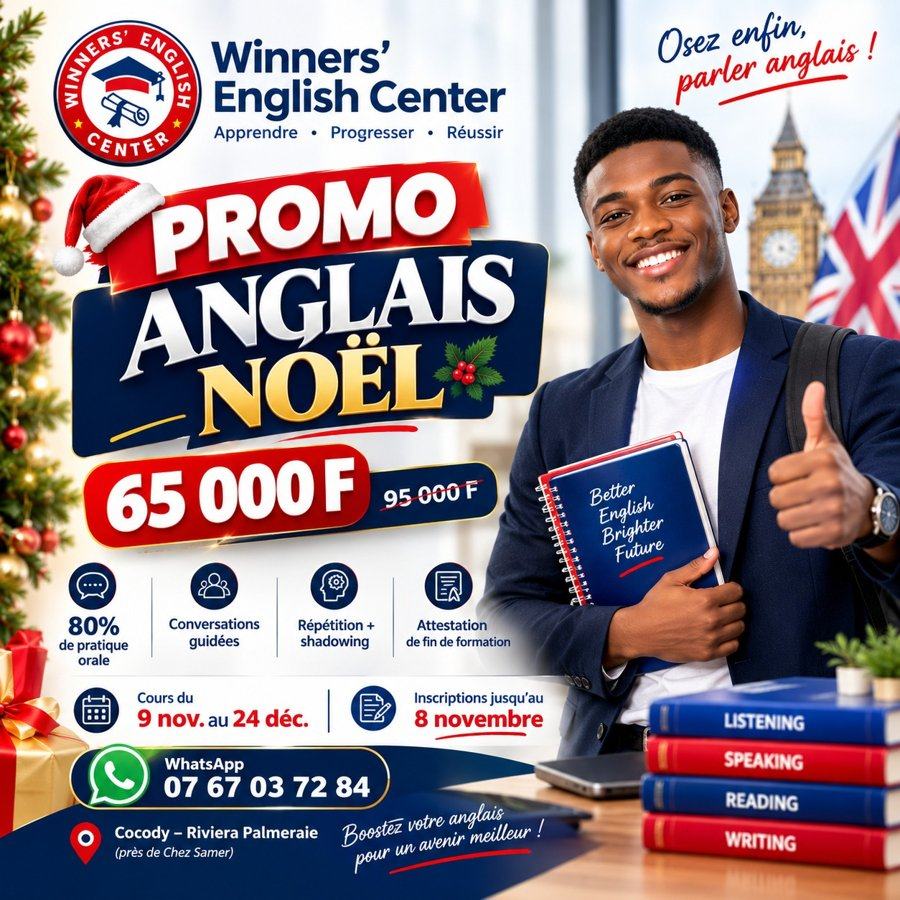
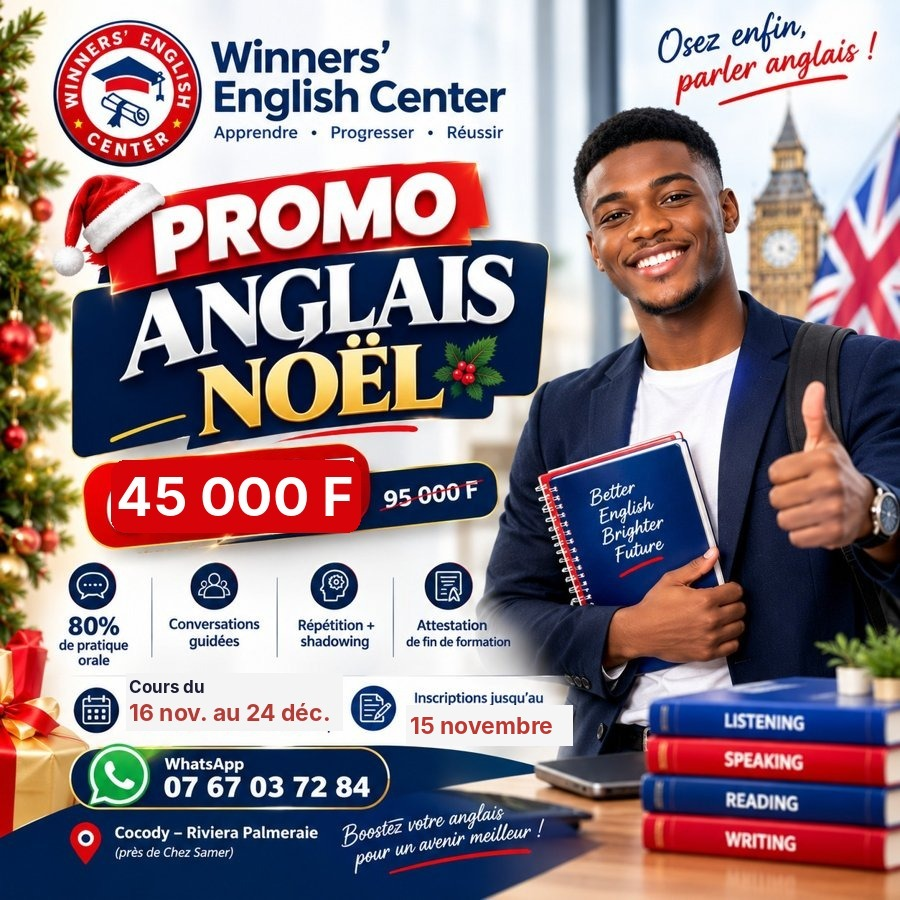
Promo Noel 45000 F, debut 16 nov, masterclass 15 nov
Claude-Session: https://claude.ai/code/session_01RFv1fahLU5XSvBC829hEWp

diff --git a/index.html b/index.html
@@ -317,7 +317,7 @@ section.sec{padding-block:56px}@media(max-width:600px){section.sec{padding-block
 <script src="pub.js"></script>
 <script src="test.js"></script>
 <div id="app"></div>
-<script id="site-data" type="application/json">{"general": {"name": "Winners' English Center", "tagline": "Centre de formation en anglais", "logo": "site/img/16d24c4840.png", "whatsapp": "2250767037284", "whatsappDisplay": "+225 07 67 03 72 84", "phone": "+225 07 67 03 72 84 · +225 01 41 81 70 78", "email": "winnersenglish04@gmail.com", "address": "Cocody, Riviera Palmeraie, Abidjan, Côte d'Ivoire", "mapsUrl": "https://www.google.com/maps/search/?api=1&query=Winners%27+English+Center+Cocody+Riviera+Palmeraie", "siteUrl": "https://winnersenglishcenter.com/", "facebook": "https://www.facebook.com/108178682182393", "tiktok": "https://www.tiktok.com/@winnersenglish", "adminCode": "winners2026", "heroTitles": [["Parlez anglais avec confiance", "Speak English with confidence"], ["Osez prendre la parole", "Dare to speak up"], ["Votre anglais, votre avenir", "Your English, your future"]], "heroSubtitle": "Cours en groupe, en privé, en ligne ou à domicile, du niveau A1 au C2. Une méthode basée sur la pratique orale, pour enfin parler et pas seulement comprendre.", "heroImages": ["site/img/fb/cours_adultes.jpg", "site/img/fb/kids_groupe.jpg", "site/img/fb/banco.jpg", "g/groupe.jpg", "site/img/fb/groupe_tshirts.jpg"], "stats": [{"n": "929+", "l": "fans sur Facebook"}, {"n": "3 000+", "l": "abonnés TikTok"}, {"n": "30K+", "l": "j'aime sur TikTok"}, {"n": "A1 → C2", "l": "tous les niveaux"}]}, "gallery": [{"img": "site/img/fb/kids_cours.jpg", "caption": "Cours d'anglais pour enfants avec Coach Winner", "big": true}, {"img": "site/img/fb/adultes_dialogue.jpg", "caption": "Jeu de rôle : deux apprenants pratiquent un dialogue", "big": true}, {"img": "site/img/fb/coach_tableau.jpg", "caption": "Coach Winner explique la leçon au tableau numérique", "big": false}, {"img": "site/img/fb/kids_oral.jpg", "caption": "Les enfants prennent la parole en anglais", "big": false}, {"img": "site/img/fb/adultes_classe.jpg", "caption": "Cours adultes en petit groupe avec Coach Winner", "big": false}, {"img": "site/img/fb/apprenante.jpg", "caption": "Une apprenante en cours présentiel, avec son manuel B1-B2", "big": false}, {"img": "site/img/fb/adultes_test.jpg", "caption": "Test oral en groupe : « Discovering Canada »", "big": false}, {"img": "site/img/fb/kids_tableau.jpg", "caption": "Au tableau : on écrit et on parle en anglais", "big": false}, {"img": "site/img/fb/attestation.jpg", "caption": "Remise d'attestation de fin de formation", "big": true}, {"img": "site/img/fb/adultes_explication.jpg", "caption": "Coach Winner explique la grammaire au tableau numérique", "big": false}, {"img": "site/img/fb/kids_coach_fille.jpg", "caption": "Une jeune apprenante avec Coach Winner", "big": false}, {"img": "site/img/fb/adultes_lecture.jpg", "caption": "Lecture et compréhension en classe", "big": false}, {"img": "site/img/fb/adultes_ecoute.jpg", "caption": "Activité d'écoute pendant le cours", "big": false}, {"img": "site/img/fb/classe_1.jpg", "caption": "Pratique de l'oral en classe", "big": false}, {"img": "g/aide.jpg", "caption": "Coach Winner aide une apprenante", "big": false}, {"img": "site/img/fb/coach_studio.jpg", "caption": "Coach Winner prépare les cours en ligne", "big": false}, {"img": "g/coulisses.jpg", "caption": "Dans les coulisses du centre", "big": false}], "videos": [{"title": "Une jeune apprenante se présente en anglais devant la classe", "url": "v/kids_1.mp4", "cover": "v/kids_1.jpg"}, {"title": "À son tour, un jeune apprenant se présente en anglais", "url": "v/kids_2.mp4", "cover": "v/kids_2.jpg"}, {"title": "Practice time : deux apprenantes en jeu de rôle devant le groupe", "url": "v/practice.mp4", "cover": "v/practice.jpg"}, {"title": "Un apprenant se présente en anglais", "url": "v/intro_apprenant.mp4", "cover": "v/intro_apprenant.jpg"}, {"title": "Shadowing en groupe : on écoute, on répète, on imite", "url": "v/shadowing_hd.mp4", "cover": "v/shadowing_hd.jpg"}, {"title": "Un autre apprenant prend la parole en anglais", "url": "v/presentation.mp4", "cover": "v/presentation.jpg"}, {"title": "Une apprenante souhaite un joyeux anniversaire… en anglais !", "url": "v/birthday.mp4", "cover": "v/birthday.jpg"}, {"title": "Un vrai cours au centre, en petit groupe", "url": "v/cours_groupe.mp4", "cover": "v/cours_groupe.jpg"}, {"title": "Cours en pleine forêt au Parc du Banco", "url": "v/banco.mp4", "cover": "v/banco.jpg"}], "services": [{"icon": "👥", "title": "Cours en groupe", "desc": "Des petits groupes par niveau, pour pratiquer l'oral avec d'autres apprenants motivés."}, {"icon": "🎯", "title": "Cours privés", "desc": "Un programme sur mesure, à votre rythme, centré sur vos objectifs : travail, voyage, examen."}, {"icon": "💻", "title": "Cours en ligne", "desc": "Les mêmes cours en visioconférence, où que vous soyez en Côte d'Ivoire ou à l'étranger."}, {"icon": "🏠", "title": "Cours à domicile", "desc": "Le formateur se déplace chez vous, pour adultes comme pour enfants."}, {"icon": "🧒", "title": "Répétiteurs pour enfants", "desc": "Des répétiteurs à domicile pour accompagner vos enfants en anglais, du primaire à la terminale."}, {"icon": "📄", "title": "Traduction de documents", "desc": "Traduction français ↔ anglais de vos documents administratifs, académiques et professionnels."}, {"icon": "🎙", "title": "Interprétariat", "desc": "Un interprète pour vos réunions, rendez-vous d'affaires et événements."}, {"icon": "🤝", "title": "Escorte bilingue", "desc": "Un accompagnateur bilingue pour vos visiteurs anglophones, dans leurs démarches et déplacements."}], "founder": {"name": "Guy Boris Douka", "role": "Fondateur et formateur, « Coach Winner »", "photos": ["site/img/fb/fondateur.jpg"], "desc": "Fondateur de Winners' English Center à Cocody, Guy Boris Douka, alias Coach Winner, accompagne enfants, étudiants et professionnels vers un anglais qu'ils osent parler. Sa conviction : une langue s'apprend en la pratiquant, chaque jour, sans peur de se tromper.", "skills": ["Anglais général", "Anglais professionnel", "Préparation à l'oral", "Traduction", "Interprétariat", "Pédagogie enfants"], "articles": [], "extraPhotos": []}, "testimonials": [], "courses": [], "specialFeatured": {}, "specials": [{"title": "Masterclass gratuite : Réussis ton entretien d'embauche en anglais", "slug": "masterclass-entretien", "audience": "Étudiants, diplômés, travailleurs · Gratuit", "tag": "21 novembre", "cover": "site/img/prog_masterclass_entretien.jpg", "desc": "Une offre d'emploi ou un stage demande l'anglais, et tu as peur de perdre le poste à l'entretien ? Cette masterclass est faite pour toi.\nSamedi 21 novembre de 10 h à 11 h 30, à CHIC SALLE, Cocody Riviera Palmeraie (accueil dès 9 h 30). Également en direct sur la page Facebook.\n\n✅ Les 10 questions qu'on te pose presque toujours en entretien, et comment y répondre\n✅ Te présenter en anglais en 1 minute, sans bloquer\n✅ Les erreurs qui éliminent un candidat\n✅ Des simulations d'entretien en direct avec des volontaires\n✅ Un test de niveau offert à l'entrée, avec ton résultat le jour même\n✅ Une offre spéciale réservée aux participants\n\n⏳ Places limitées en salle : réserve la tienne.", "price": "Entrée gratuite, sur réservation", "date": "2026-11-05", "inscription": "https://wa.me/2250767037284?text=Bonjour%20Coach%20Winner%2C%20je%20r%C3%A9serve%20ma%20place%20pour%20la%20masterclass%20%C2%AB%20Entretien%20d%27embauche%20en%20anglais%20%C2%BB%20du%2021%20novembre.%20Mon%20nom%20%3A%20"}, {"title": "Promo Anglais Professionnel", "slug": "anglais-professionnel", "audience": "Étudiants, diplômés, travailleurs, entrepreneurs", "tag": "1er décembre", "cover": "site/img/prog_anglais_pro.jpg", "desc": "Entretien d'embauche, e-mails, appels, réunions : en 4 semaines, apprends l'anglais dont tu as besoin pour décrocher un poste et évoluer dans ta carrière.\nDu 1er au 24 décembre, 2 séances de 2 h par semaine. Au cabinet (CHIC SALLE, Cocody Riviera Palmeraie), en ligne ou à domicile.\n\n📚 Au programme\nSemaine 1 : te présenter en anglais (parcours, qualités, objectifs) avec un pitch d'une minute\nSemaine 2 : les questions d'entretien, comment y répondre, et le vocabulaire de ton métier\nSemaine 3 : l'anglais du travail : e-mails professionnels, appels téléphoniques, réunions\nSemaine 4 : simulations d'entretien filmées, correction personnalisée et entretien final\n\n🎁 Inclus\n✅ Ton CV traduit et corrigé en anglais\n✅ Ton pitch de présentation rédigé avec toi\n✅ Le guide « Entretien d'embauche en anglais » offert\n✅ Un test de niveau au début et à la fin\n✅ Un groupe WhatsApp avec une question d'entretien par jour\n✅ Une attestation de fin de formation\n\n💰 Formules\nAu cabinet : cours groupé (15 pers. max) 45 000 F · cours privé 70 000 F\nEn ligne : cours groupé (15 pers. max) 40 000 F · cours privé 65 000 F\nÀ domicile : Riviera Palmeraie 70 000 F · Cocody 80 000 F · hors Cocody 85 000 F\n\n📄 Petit budget ? Le guide « Entretien d'embauche en anglais » seul : 5 000 F, pour apprendre à ton rythme.", "price": "À partir de 40 000 F", "date": "2026-11-05", "inscription": "https://wa.me/2250767037284?text=Bonjour%20Coach%20Winner%2C%20je%20veux%20m%27inscrire%20%C3%A0%20la%20Promo%20Anglais%20Professionnel.%20Formule%20choisie%20%3A%20"}, {"title": "Speaking Weekend", "slug": "speaking-weekend", "audience": "Ados et adultes · 100 % en ligne", "tag": "Nouveau", "cover": "site/img/prog_speaking_weekend.jpg", "desc": "Tu comprends l'anglais mais tu bloques dès qu'il faut parler ? Chaque samedi de 19 h à 20 h 30, sur Google Meet, on pratique l'oral en petits groupes avec Coach Winner : discussions, jeux de rôle, débats sur la vie réelle. Idéal si tu travailles toute la semaine. 1re séance le samedi 14 novembre. Offert aux élèves de la Promo Anglais Noël.", "price": "10 000 F par mois (4 séances)", "date": "2026-11-03", "inscription": "https://docs.google.com/forms/d/e/1FAIpQLSesWfZ3C3tI3VC3vyurEbz_ASMHTTXm889D19DENrqoynH3ww/viewform"}, {"title": "30 jours d'écoute anglophone", "slug": "30-jours-ecoute", "audience": "Ados et adultes · 3 niveaux", "tag": "1er décembre", "cover": "site/img/prog_30_jours_ecoute.jpg", "desc": "Tu comprends mal quand un anglophone parle vite ? En 30 jours, habitue ton oreille à l'anglais parlé, à ton rythme.\nDémarrage officiel le 1er décembre. Ensuite, le programme reste ouvert : tu t'inscris et tu commences quand tu veux.\n\n✅ 1 audio + 1 PDF d'exercices par jour, sur l'appli et le site\n✅ + 30 audios bonus\n✅ 3 niveaux : Beginner, Intermédiaire, Avancé (un petit test pour entrer en Intermédiaire ou en Avancé)\n✅ Un test d'écoute au début et à la fin, pour mesurer ton progrès\n✅ 4 rencontres par mois le week-end avec le Teacher : 1 au centre à Cocody, 3 en ligne\n✅ Un groupe WhatsApp par niveau\n✅ Une attestation de fin de programme\n✅ Un casque d'écoute offert, livré gratuitement partout à Abidjan (hors Abidjan : expédition à ta charge)\n\n⏳ 15 places seulement par niveau.", "price": "20 000 F tout compris, en une fois", "date": "2026-11-04", "inscription": "https://docs.google.com/forms/d/e/1FAIpQLScf80eHzwDchVrg7xzjeAd6VcAv2z98rPeVafTCCO3eAGJFsw/viewform"}, {"title": "English Club Meeting", "slug": "english-club-meeting", "audience": "Tous niveaux · Gratuit", "tag": "Gratuit", "cover": "site/img/prog_club.jpg", "desc": "Come. Practice. Connect. Des rencontres au centre pour parler anglais : discussions, jeux, activités, nouvelles amitiés. Venez, pratiquez, échangez et progressez !", "price": "Entrée gratuite", "date": "2026-10-04"}, {"title": "Anglais Vacances : adolescents", "slug": "anglais-vacances-ados", "audience": "Adolescents", "tag": "Vacances", "cover": "site/img/prog_vacances_ados.jpg", "desc": "Gagner en confiance en anglais avant la rentrée : 2 séances de 2 h par semaine, en présentiel ou en ligne, test de placement gratuit, séance de renforcement sur WhatsApp, supports audio, vidéo et PDF inclus.", "price": "30 000 F le programme", "date": "2026-10-03", "hideInGrid": true}, {"title": "Anglais Vacances : travailleurs & entrepreneurs", "slug": "anglais-vacances-pro", "audience": "Travailleurs, entrepreneurs", "tag": "Vacances", "cover": "site/img/prog_vacances_pro.jpg", "desc": "L'anglais qui ouvre les portes de votre carrière et de votre business : 2 séances de 2 h par semaine, présentiel ou en ligne, test de placement gratuit, supports inclus.", "price": "30 000 F le programme", "date": "2026-10-02", "hideInGrid": true}, {"title": "Webinaire : Je comprends l'anglais, mais je ne parle pas", "slug": "webinaire", "audience": "Tous niveaux · En ligne", "tag": "Gratuit", "cover": "site/img/prog_webinaire.jpg", "desc": "Comprendre ne suffit pas, il est temps d'oser parler. Un webinaire gratuit avec Coach Winner pour débloquer ta parole, réservé aux membres de la communauté English Lovers Club.", "price": "Gratuit", "date": "2026-10-01", "hideInGrid": true}, {"title": "Anglais pour enfants", "audience": "Enfants, du primaire au collège", "desc": "Cours d'anglais à domicile et au centre : jeux éducatifs, expression orale, vocabulaire, prononciation, confiance en soi.", "price": "", "date": "2026-08-25", "hideInGrid": true}, {"title": "Cours à domicile", "slug": "cours-a-domicile", "audience": "Enfants, du primaire à la Terminale", "desc": "WIN Cours à domicile : un répétiteur sérieux chez vous, toutes matières, partout à Abidjan. Tarif au mois, remplacement garanti si le répétiteur ne convient pas.", "price": "", "date": "2026-08-01", "hideInGrid": true}, {"title": "Traduction & interprétariat", "slug": "traduction-interpretariat", "audience": "Entreprises, particuliers", "desc": "Traduction français ↔ anglais de vos documents, interprète pour vos réunions, rendez-vous d'affaires et missions.", "price": "Sur devis", "date": "2026-07-01", "hideInGrid": true}, {"title": "Cours privés", "slug": "cours-prives", "audience": "Adultes, professionnels", "desc": "Un programme sur mesure, à votre rythme, au centre, en ligne ou à domicile : entretien, travail, voyage, examen.", "price": "", "date": "2026-07-02", "hideInGrid": true}], "shop": [{"title": "Le Pack Anglais à vie : payez une fois, apprenez pour toujours", "desc": "50 modules, 300 vidéos, 400 audios, 250 PDF, packs IELTS, TOEFL et TOEIC. Accès à vie, téléchargement immédiat.", "price": "4 900 F", "cover": "site/img/pack_4900.jpg", "payUrl": ""}, {"title": "Je comprends l'anglais, mais je ne parle pas", "desc": "Le guide pour enfin oser parler : débloquer la peur de l'erreur et passer de la compréhension à la parole.", "price": "2 300 F", "cover": "https://imagedelivery.net/putTOXENmIzOdWsdn4Z59Q/f01762c6-a976-4931-496d-24dd322e7a00/public", "payUrl": "https://winners-english-center-8.mymaketou.shop/fr/products/je-comprends-langlais-mais-je-ne-parle-pas-le-guide-pour-enfin-oser-parler"}, {"title": "L'anglais pour décrocher un emploi", "desc": "Ne perds plus une opportunité à cause de l'anglais : CV, entretien, phrases clés du monde du travail.", "price": "2 600 F", "cover": "https://imagedelivery.net/putTOXENmIzOdWsdn4Z59Q/d172d1d1-3f6b-41f1-625f-8872d90acd00/public", "payUrl": "https://winners-english-center-8.mymaketou.shop/fr/products/langlais-pour-decrocher-un-emploi"}, {"title": "Tenir une conversation en anglais", "desc": "Ne reste plus jamais sans mots face à un anglophone.", "price": "2 400 F", "cover": "https://imagedelivery.net/putTOXENmIzOdWsdn4Z59Q/a9f76ff4-c4c7-43e4-b394-248d79785c00/public", "payUrl": "https://winners-english-center-8.mymaketou.shop/fr/products/tenir-une-conversation-en-anglais-ne-reste-plus-jamais-sans-mots-face-a-un-anglophone"}, {"title": "L'anglais facile : de zéro à la conversation", "desc": "Étape par étape, avec des dialogues pratiques, à ton rythme.", "price": "2 200 F", "cover": "https://imagedelivery.net/putTOXENmIzOdWsdn4Z59Q/4fa4d981-ff7f-4140-3a6b-879073acfc00/public", "payUrl": "https://winners-english-center-8.mymaketou.shop/fr/products/langlais-facile-de-zero-a-la-conversation"}, {"title": "L'anglais du voyageur", "desc": "L'anglais essentiel pour voyager sans stress : aéroport, hôtel, restaurant, transports.", "price": "2 100 F", "cover": "https://imagedelivery.net/putTOXENmIzOdWsdn4Z59Q/88d1c575-462e-42b9-f081-b02610136300/public", "payUrl": "https://winners-english-center-8.mymaketou.shop/fr/products/langlais-du-voyageur"}, {"title": "Prépare ton oral d'anglais", "desc": "La méthode pour réussir n'importe quel oral d'anglais, du BEPC aux concours.", "price": "2 500 F", "cover": "https://imagedelivery.net/putTOXENmIzOdWsdn4Z59Q/1fa0bca4-95c1-40ed-95b0-61aaeecccb00/public", "payUrl": "https://winners-english-center-8.mymaketou.shop/fr/products/prepare-ton-oral-danglais-la-methode-pour-reussir-nimporte-quel-oral-danglais"}, {"title": "Maîtrisez la grammaire anglaise par la pratique", "desc": "Pratiquez régulièrement, progressez durablement.", "price": "2 400 F", "cover": "https://imagedelivery.net/putTOXENmIzOdWsdn4Z59Q/0f713d6c-d1bb-4065-9db9-95940eb4b000/public", "payUrl": "https://winners-english-center-8.mymaketou.shop/fr/products/maitrisez-la-grammaire-anglaise-par-la-pratique-pratiquez-regulierement-progressez-durablement"}, {"title": "Le passé en anglais : enfin maîtrisé", "desc": "Simple past, past continuous, present perfect : tout devient clair.", "price": "2 000 F", "cover": "https://imagedelivery.net/putTOXENmIzOdWsdn4Z59Q/a43a251a-29d9-4997-0eee-5b3cc0dfcd00/public", "payUrl": "https://winners-english-center-8.mymaketou.shop/fr/products/le-passe-en-anglais-enfin-maitrise-simple-past-past-continuous-present-perfect-tout-devient-clair"}, {"title": "Les expressions anglaises qui font la différence", "desc": "Parle comme un vrai anglophone, pas comme un manuel.", "price": "2 000 F", "cover": "https://imagedelivery.net/putTOXENmIzOdWsdn4Z59Q/3df67cc5-7506-445a-173a-0b042d827000/public", "payUrl": "https://winners-english-center-8.mymaketou.shop/fr/products/les-expressions-anglaises-qui-font-la-difference-parle-comme-un-vrai-anglophone-pas-comme-un-manuel"}, {"title": "Les faux amis en anglais", "desc": "Ces mots qui te trompent depuis toujours.", "price": "2 000 F", "cover": "https://imagedelivery.net/putTOXENmIzOdWsdn4Z59Q/2dcf96ee-80fa-4296-d0f5-3f0335d7c500/public", "payUrl": "https://winners-english-center-8.mymaketou.shop/fr/products/les-faux-amis-en-anglais-ces-mots-qui-te-trompent-depuis-toujours"}], "resources": [], "officialTests": [], "faq": [{"q": "Où se trouve le centre ?", "a": "À Cocody, Riviera Palmeraie (Abidjan). Écrivez-nous sur WhatsApp pour recevoir l'itinéraire exact."}, {"q": "Les cours sont-ils aussi en ligne ?", "a": "Oui. Tous nos programmes existent en présentiel et en ligne, avec le même formateur et le même suivi."}, {"q": "Combien coûte la Promo Anglais Noël ?", "a": "65 000 F au lieu de 95 000 F : 35 000 F à l'inscription, puis 30 000 F début décembre. Cours du 9 novembre au 24 décembre, inscriptions jusqu'au 8 novembre."}, {"q": "Comment payer ?", "a": "Par Mobile Money au 07 67 03 72 84 ou au 01 41 81 70 78, ou par virement bancaire (Djamo, au nom de Guy Boris Douka) sur le compte CI201 01001 111607555481 35. Envoyez ensuite la capture ou le reçu du paiement sur WhatsApp."}, {"q": "Proposez-vous des cours pour enfants ?", "a": "Oui : cours d'anglais pour enfants au centre ou à domicile, et répétiteurs du primaire à la terminale."}, {"q": "C'est quoi le Speaking Weekend ?", "a": "Une séance de pratique orale en ligne, chaque samedi de 19 h à 20 h 30 sur Google Meet, en petits groupes avec Coach Winner. 10 000 F par mois pour 4 séances, offert aux élèves de la Promo Anglais Noël. 1re séance le samedi 14 novembre."}, {"q": "Comment connaître mon niveau ?", "a": "Faites le test de niveau gratuit sur cette page : 20 questions, résultat immédiat (A1, A2, B1 ou B2+)."}, {"q": "C'est quoi les 30 jours d'écoute anglophone ?", "a": "Un programme pour habituer ton oreille à l'anglais parlé : chaque jour un audio et un PDF d'exercices sur l'appli et le site, 30 audios bonus, 4 rencontres par mois le week-end avec le Teacher (1 au centre, 3 en ligne), un groupe WhatsApp par niveau, un test d'écoute au début et à la fin, une attestation et un casque offert (livraison gratuite à Abidjan). 3 niveaux, 15 places par niveau. Démarrage officiel le 1er décembre, puis inscriptions ouvertes en continu. 20 000 F tout compris, en une fois."}, {"q": "Faites-vous de la traduction ?", "a": "Oui : traduction de documents, interprétariat et escorte bilingue. Envoyez-nous votre demande sur WhatsApp."}, {"q": "Comment s'inscrire ?", "a": "Le plus simple : écrivez-nous sur WhatsApp au +225 07 67 03 72 84. Nous vous répondons rapidement."}]}</script>
+<script id="site-data" type="application/json">{"general": {"name": "Winners' English Center", "tagline": "Centre de formation en anglais", "logo": "site/img/16d24c4840.png", "whatsapp": "2250767037284", "whatsappDisplay": "+225 07 67 03 72 84", "phone": "+225 07 67 03 72 84 · +225 01 41 81 70 78", "email": "winnersenglish04@gmail.com", "address": "Cocody, Riviera Palmeraie, Abidjan, Côte d'Ivoire", "mapsUrl": "https://www.google.com/maps/search/?api=1&query=Winners%27+English+Center+Cocody+Riviera+Palmeraie", "siteUrl": "https://winnersenglishcenter.com/", "facebook": "https://www.facebook.com/108178682182393", "tiktok": "https://www.tiktok.com/@winnersenglish", "adminCode": "winners2026", "heroTitles": [["Parlez anglais avec confiance", "Speak English with confidence"], ["Osez prendre la parole", "Dare to speak up"], ["Votre anglais, votre avenir", "Your English, your future"]], "heroSubtitle": "Cours en groupe, en privé, en ligne ou à domicile, du niveau A1 au C2. Une méthode basée sur la pratique orale, pour enfin parler et pas seulement comprendre.", "heroImages": ["site/img/fb/cours_adultes.jpg", "site/img/fb/kids_groupe.jpg", "site/img/fb/banco.jpg", "g/groupe.jpg", "site/img/fb/groupe_tshirts.jpg"], "stats": [{"n": "929+", "l": "fans sur Facebook"}, {"n": "3 000+", "l": "abonnés TikTok"}, {"n": "30K+", "l": "j'aime sur TikTok"}, {"n": "A1 → C2", "l": "tous les niveaux"}]}, "gallery": [{"img": "site/img/fb/kids_cours.jpg", "caption": "Cours d'anglais pour enfants avec Coach Winner", "big": true}, {"img": "site/img/fb/adultes_dialogue.jpg", "caption": "Jeu de rôle : deux apprenants pratiquent un dialogue", "big": true}, {"img": "site/img/fb/coach_tableau.jpg", "caption": "Coach Winner explique la leçon au tableau numérique", "big": false}, {"img": "site/img/fb/kids_oral.jpg", "caption": "Les enfants prennent la parole en anglais", "big": false}, {"img": "site/img/fb/adultes_classe.jpg", "caption": "Cours adultes en petit groupe avec Coach Winner", "big": false}, {"img": "site/img/fb/apprenante.jpg", "caption": "Une apprenante en cours présentiel, avec son manuel B1-B2", "big": false}, {"img": "site/img/fb/adultes_test.jpg", "caption": "Test oral en groupe : « Discovering Canada »", "big": false}, {"img": "site/img/fb/kids_tableau.jpg", "caption": "Au tableau : on écrit et on parle en anglais", "big": false}, {"img": "site/img/fb/attestation.jpg", "caption": "Remise d'attestation de fin de formation", "big": true}, {"img": "site/img/fb/adultes_explication.jpg", "caption": "Coach Winner explique la grammaire au tableau numérique", "big": false}, {"img": "site/img/fb/kids_coach_fille.jpg", "caption": "Une jeune apprenante avec Coach Winner", "big": false}, {"img": "site/img/fb/adultes_lecture.jpg", "caption": "Lecture et compréhension en classe", "big": false}, {"img": "site/img/fb/adultes_ecoute.jpg", "caption": "Activité d'écoute pendant le cours", "big": false}, {"img": "site/img/fb/classe_1.jpg", "caption": "Pratique de l'oral en classe", "big": false}, {"img": "g/aide.jpg", "caption": "Coach Winner aide une apprenante", "big": false}, {"img": "site/img/fb/coach_studio.jpg", "caption": "Coach Winner prépare les cours en ligne", "big": false}, {"img": "g/coulisses.jpg", "caption": "Dans les coulisses du centre", "big": false}], "videos": [{"title": "Une jeune apprenante se présente en anglais devant la classe", "url": "v/kids_1.mp4", "cover": "v/kids_1.jpg"}, {"title": "À son tour, un jeune apprenant se présente en anglais", "url": "v/kids_2.mp4", "cover": "v/kids_2.jpg"}, {"title": "Practice time : deux apprenantes en jeu de rôle devant le groupe", "url": "v/practice.mp4", "cover": "v/practice.jpg"}, {"title": "Un apprenant se présente en anglais", "url": "v/intro_apprenant.mp4", "cover": "v/intro_apprenant.jpg"}, {"title": "Shadowing en groupe : on écoute, on répète, on imite", "url": "v/shadowing_hd.mp4", "cover": "v/shadowing_hd.jpg"}, {"title": "Un autre apprenant prend la parole en anglais", "url": "v/presentation.mp4", "cover": "v/presentation.jpg"}, {"title": "Une apprenante souhaite un joyeux anniversaire… en anglais !", "url": "v/birthday.mp4", "cover": "v/birthday.jpg"}, {"title": "Un vrai cours au centre, en petit groupe", "url": "v/cours_groupe.mp4", "cover": "v/cours_groupe.jpg"}, {"title": "Cours en pleine forêt au Parc du Banco", "url": "v/banco.mp4", "cover": "v/banco.jpg"}], "services": [{"icon": "👥", "title": "Cours en groupe", "desc": "Des petits groupes par niveau, pour pratiquer l'oral avec d'autres apprenants motivés."}, {"icon": "🎯", "title": "Cours privés", "desc": "Un programme sur mesure, à votre rythme, centré sur vos objectifs : travail, voyage, examen."}, {"icon": "💻", "title": "Cours en ligne", "desc": "Les mêmes cours en visioconférence, où que vous soyez en Côte d'Ivoire ou à l'étranger."}, {"icon": "🏠", "title": "Cours à domicile", "desc": "Le formateur se déplace chez vous, pour adultes comme pour enfants."}, {"icon": "🧒", "title": "Répétiteurs pour enfants", "desc": "Des répétiteurs à domicile pour accompagner vos enfants en anglais, du primaire à la terminale."}, {"icon": "📄", "title": "Traduction de documents", "desc": "Traduction français ↔ anglais de vos documents administratifs, académiques et professionnels."}, {"icon": "🎙", "title": "Interprétariat", "desc": "Un interprète pour vos réunions, rendez-vous d'affaires et événements."}, {"icon": "🤝", "title": "Escorte bilingue", "desc": "Un accompagnateur bilingue pour vos visiteurs anglophones, dans leurs démarches et déplacements."}], "founder": {"name": "Guy Boris Douka", "role": "Fondateur et formateur, « Coach Winner »", "photos": ["site/img/fb/fondateur.jpg"], "desc": "Fondateur de Winners' English Center à Cocody, Guy Boris Douka, alias Coach Winner, accompagne enfants, étudiants et professionnels vers un anglais qu'ils osent parler. Sa conviction : une langue s'apprend en la pratiquant, chaque jour, sans peur de se tromper.", "skills": ["Anglais général", "Anglais professionnel", "Préparation à l'oral", "Traduction", "Interprétariat", "Pédagogie enfants"], "articles": [], "extraPhotos": []}, "testimonials": [], "courses": [], "specialFeatured": {}, "specials": [{"title": "Masterclass gratuite : Réussis ton entretien d'embauche en anglais", "slug": "masterclass-entretien", "audience": "Étudiants, diplômés, travailleurs · Gratuit", "tag": "15 novembre", "cover": "site/img/prog_masterclass_entretien.jpg", "desc": "Une offre d'emploi ou un stage demande l'anglais, et tu as peur de perdre le poste à l'entretien ? Cette masterclass est faite pour toi.\nDimanche 15 novembre de 8 h 30 à 12 h, à CHIC SALLE, Cocody Riviera Palmeraie (accueil dès 8 h). Également en direct sur la page Facebook.\n\n✅ Les 10 questions qu'on te pose presque toujours en entretien, et comment y répondre\n✅ Te présenter en anglais en 1 minute, sans bloquer\n✅ Les erreurs qui éliminent un candidat\n✅ Des simulations d'entretien en direct avec des volontaires\n✅ Un test de niveau offert à l'entrée, avec ton résultat le jour même\n✅ Une offre spéciale réservée aux participants\n\n⏳ Places limitées en salle : réserve la tienne.", "price": "Entrée gratuite, sur réservation", "date": "2026-11-05", "inscription": "https://wa.me/2250767037284?text=Bonjour%20Coach%20Winner%2C%20je%20r%C3%A9serve%20ma%20place%20pour%20la%20masterclass%20%C2%AB%20Entretien%20d%27embauche%20en%20anglais%20%C2%BB%20du%2015%20novembre.%20Mon%20nom%20%3A%20"}, {"title": "Promo Anglais Professionnel", "slug": "anglais-professionnel", "audience": "Étudiants, diplômés, travailleurs, entrepreneurs", "tag": "1er décembre", "cover": "site/img/prog_anglais_pro.jpg", "desc": "Entretien d'embauche, e-mails, appels, réunions : en 4 semaines, apprends l'anglais dont tu as besoin pour décrocher un poste et évoluer dans ta carrière.\nDu 1er au 24 décembre, 2 séances de 2 h par semaine. Au cabinet (CHIC SALLE, Cocody Riviera Palmeraie), en ligne ou à domicile.\n\n📚 Au programme\nSemaine 1 : te présenter en anglais (parcours, qualités, objectifs) avec un pitch d'une minute\nSemaine 2 : les questions d'entretien, comment y répondre, et le vocabulaire de ton métier\nSemaine 3 : l'anglais du travail : e-mails professionnels, appels téléphoniques, réunions\nSemaine 4 : simulations d'entretien filmées, correction personnalisée et entretien final\n\n🎁 Inclus\n✅ Ton CV traduit et corrigé en anglais\n✅ Ton pitch de présentation rédigé avec toi\n✅ Le guide « Entretien d'embauche en anglais » offert\n✅ Un test de niveau au début et à la fin\n✅ Un groupe WhatsApp avec une question d'entretien par jour\n✅ Une attestation de fin de formation\n\n💰 Formules\nAu cabinet : cours groupé (15 pers. max) 45 000 F · cours privé 70 000 F\nEn ligne : cours groupé (15 pers. max) 40 000 F · cours privé 65 000 F\nÀ domicile : Riviera Palmeraie 70 000 F · Cocody 80 000 F · hors Cocody 85 000 F\n\n📄 Petit budget ? Le guide « Entretien d'embauche en anglais » seul : 5 000 F, pour apprendre à ton rythme.", "price": "À partir de 40 000 F", "date": "2026-11-05", "inscription": "https://wa.me/2250767037284?text=Bonjour%20Coach%20Winner%2C%20je%20veux%20m%27inscrire%20%C3%A0%20la%20Promo%20Anglais%20Professionnel.%20Formule%20choisie%20%3A%20"}, {"title": "Speaking Weekend", "slug": "speaking-weekend", "audience": "Ados et adultes · 100 % en ligne", "tag": "Nouveau", "cover": "site/img/prog_speaking_weekend.jpg", "desc": "Tu comprends l'anglais mais tu bloques dès qu'il faut parler ? Chaque samedi de 19 h à 20 h 30, sur Google Meet, on pratique l'oral en petits groupes avec Coach Winner : discussions, jeux de rôle, débats sur la vie réelle. Idéal si tu travailles toute la semaine. 1re séance le samedi 14 novembre. Offert aux élèves de la Promo Anglais Noël.", "price": "10 000 F par mois (4 séances)", "date": "2026-11-03", "inscription": "https://docs.google.com/forms/d/e/1FAIpQLSesWfZ3C3tI3VC3vyurEbz_ASMHTTXm889D19DENrqoynH3ww/viewform"}, {"title": "30 jours d'écoute anglophone", "slug": "30-jours-ecoute", "audience": "Ados et adultes · 3 niveaux", "tag": "1er décembre", "cover": "site/img/prog_30_jours_ecoute.jpg", "desc": "Tu comprends mal quand un anglophone parle vite ? En 30 jours, habitue ton oreille à l'anglais parlé, à ton rythme.\nDémarrage officiel le 1er décembre. Ensuite, le programme reste ouvert : tu t'inscris et tu commences quand tu veux.\n\n✅ 1 audio + 1 PDF d'exercices par jour, sur l'appli et le site\n✅ + 30 audios bonus\n✅ 3 niveaux : Beginner, Intermédiaire, Avancé (un petit test pour entrer en Intermédiaire ou en Avancé)\n✅ Un test d'écoute au début et à la fin, pour mesurer ton progrès\n✅ 4 rencontres par mois le week-end avec le Teacher : 1 au centre à Cocody, 3 en ligne\n✅ Un groupe WhatsApp par niveau\n✅ Une attestation de fin de programme\n✅ Un casque d'écoute offert, livré gratuitement partout à Abidjan (hors Abidjan : expédition à ta charge)\n\n⏳ 15 places seulement par niveau.", "price": "20 000 F tout compris, en une fois", "date": "2026-11-04", "inscription": "https://docs.google.com/forms/d/e/1FAIpQLScf80eHzwDchVrg7xzjeAd6VcAv2z98rPeVafTCCO3eAGJFsw/viewform"}, {"title": "English Club Meeting", "slug": "english-club-meeting", "audience": "Tous niveaux · Gratuit", "tag": "Gratuit", "cover": "site/img/prog_club.jpg", "desc": "Come. Practice. Connect. Des rencontres au centre pour parler anglais : discussions, jeux, activités, nouvelles amitiés. Venez, pratiquez, échangez et progressez !", "price": "Entrée gratuite", "date": "2026-10-04"}, {"title": "Anglais Vacances : adolescents", "slug": "anglais-vacances-ados", "audience": "Adolescents", "tag": "Vacances", "cover": "site/img/prog_vacances_ados.jpg", "desc": "Gagner en confiance en anglais avant la rentrée : 2 séances de 2 h par semaine, en présentiel ou en ligne, test de placement gratuit, séance de renforcement sur WhatsApp, supports audio, vidéo et PDF inclus.", "price": "30 000 F le programme", "date": "2026-10-03", "hideInGrid": true}, {"title": "Anglais Vacances : travailleurs & entrepreneurs", "slug": "anglais-vacances-pro", "audience": "Travailleurs, entrepreneurs", "tag": "Vacances", "cover": "site/img/prog_vacances_pro.jpg", "desc": "L'anglais qui ouvre les portes de votre carrière et de votre business : 2 séances de 2 h par semaine, présentiel ou en ligne, test de placement gratuit, supports inclus.", "price": "30 000 F le programme", "date": "2026-10-02", "hideInGrid": true}, {"title": "Webinaire : Je comprends l'anglais, mais je ne parle pas", "slug": "webinaire", "audience": "Tous niveaux · En ligne", "tag": "Gratuit", "cover": "site/img/prog_webinaire.jpg", "desc": "Comprendre ne suffit pas, il est temps d'oser parler. Un webinaire gratuit avec Coach Winner pour débloquer ta parole, réservé aux membres de la communauté English Lovers Club.", "price": "Gratuit", "date": "2026-10-01", "hideInGrid": true}, {"title": "Anglais pour enfants", "audience": "Enfants, du primaire au collège", "desc": "Cours d'anglais à domicile et au centre : jeux éducatifs, expression orale, vocabulaire, prononciation, confiance en soi.", "price": "", "date": "2026-08-25", "hideInGrid": true}, {"title": "Cours à domicile", "slug": "cours-a-domicile", "audience": "Enfants, du primaire à la Terminale", "desc": "WIN Cours à domicile : un répétiteur sérieux chez vous, toutes matières, partout à Abidjan. Tarif au mois, remplacement garanti si le répétiteur ne convient pas.", "price": "", "date": "2026-08-01", "hideInGrid": true}, {"title": "Traduction & interprétariat", "slug": "traduction-interpretariat", "audience": "Entreprises, particuliers", "desc": "Traduction français ↔ anglais de vos documents, interprète pour vos réunions, rendez-vous d'affaires et missions.", "price": "Sur devis", "date": "2026-07-01", "hideInGrid": true}, {"title": "Cours privés", "slug": "cours-prives", "audience": "Adultes, professionnels", "desc": "Un programme sur mesure, à votre rythme, au centre, en ligne ou à domicile : entretien, travail, voyage, examen.", "price": "", "date": "2026-07-02", "hideInGrid": true}], "shop": [{"title": "Le Pack Anglais à vie : payez une fois, apprenez pour toujours", "desc": "50 modules, 300 vidéos, 400 audios, 250 PDF, packs IELTS, TOEFL et TOEIC. Accès à vie, téléchargement immédiat.", "price": "4 900 F", "cover": "site/img/pack_4900.jpg", "payUrl": ""}, {"title": "Je comprends l'anglais, mais je ne parle pas", "desc": "Le guide pour enfin oser parler : débloquer la peur de l'erreur et passer de la compréhension à la parole.", "price": "2 300 F", "cover": "https://imagedelivery.net/putTOXENmIzOdWsdn4Z59Q/f01762c6-a976-4931-496d-24dd322e7a00/public", "payUrl": "https://winners-english-center-8.mymaketou.shop/fr/products/je-comprends-langlais-mais-je-ne-parle-pas-le-guide-pour-enfin-oser-parler"}, {"title": "L'anglais pour décrocher un emploi", "desc": "Ne perds plus une opportunité à cause de l'anglais : CV, entretien, phrases clés du monde du travail.", "price": "2 600 F", "cover": "https://imagedelivery.net/putTOXENmIzOdWsdn4Z59Q/d172d1d1-3f6b-41f1-625f-8872d90acd00/public", "payUrl": "https://winners-english-center-8.mymaketou.shop/fr/products/langlais-pour-decrocher-un-emploi"}, {"title": "Tenir une conversation en anglais", "desc": "Ne reste plus jamais sans mots face à un anglophone.", "price": "2 400 F", "cover": "https://imagedelivery.net/putTOXENmIzOdWsdn4Z59Q/a9f76ff4-c4c7-43e4-b394-248d79785c00/public", "payUrl": "https://winners-english-center-8.mymaketou.shop/fr/products/tenir-une-conversation-en-anglais-ne-reste-plus-jamais-sans-mots-face-a-un-anglophone"}, {"title": "L'anglais facile : de zéro à la conversation", "desc": "Étape par étape, avec des dialogues pratiques, à ton rythme.", "price": "2 200 F", "cover": "https://imagedelivery.net/putTOXENmIzOdWsdn4Z59Q/4fa4d981-ff7f-4140-3a6b-879073acfc00/public", "payUrl": "https://winners-english-center-8.mymaketou.shop/fr/products/langlais-facile-de-zero-a-la-conversation"}, {"title": "L'anglais du voyageur", "desc": "L'anglais essentiel pour voyager sans stress : aéroport, hôtel, restaurant, transports.", "price": "2 100 F", "cover": "https://imagedelivery.net/putTOXENmIzOdWsdn4Z59Q/88d1c575-462e-42b9-f081-b02610136300/public", "payUrl": "https://winners-english-center-8.mymaketou.shop/fr/products/langlais-du-voyageur"}, {"title": "Prépare ton oral d'anglais", "desc": "La méthode pour réussir n'importe quel oral d'anglais, du BEPC aux concours.", "price": "2 500 F", "cover": "https://imagedelivery.net/putTOXENmIzOdWsdn4Z59Q/1fa0bca4-95c1-40ed-95b0-61aaeecccb00/public", "payUrl": "https://winners-english-center-8.mymaketou.shop/fr/products/prepare-ton-oral-danglais-la-methode-pour-reussir-nimporte-quel-oral-danglais"}, {"title": "Maîtrisez la grammaire anglaise par la pratique", "desc": "Pratiquez régulièrement, progressez durablement.", "price": "2 400 F", "cover": "https://imagedelivery.net/putTOXENmIzOdWsdn4Z59Q/0f713d6c-d1bb-4065-9db9-95940eb4b000/public", "payUrl": "https://winners-english-center-8.mymaketou.shop/fr/products/maitrisez-la-grammaire-anglaise-par-la-pratique-pratiquez-regulierement-progressez-durablement"}, {"title": "Le passé en anglais : enfin maîtrisé", "desc": "Simple past, past continuous, present perfect : tout devient clair.", "price": "2 000 F", "cover": "https://imagedelivery.net/putTOXENmIzOdWsdn4Z59Q/a43a251a-29d9-4997-0eee-5b3cc0dfcd00/public", "payUrl": "https://winners-english-center-8.mymaketou.shop/fr/products/le-passe-en-anglais-enfin-maitrise-simple-past-past-continuous-present-perfect-tout-devient-clair"}, {"title": "Les expressions anglaises qui font la différence", "desc": "Parle comme un vrai anglophone, pas comme un manuel.", "price": "2 000 F", "cover": "https://imagedelivery.net/putTOXENmIzOdWsdn4Z59Q/3df67cc5-7506-445a-173a-0b042d827000/public", "payUrl": "https://winners-english-center-8.mymaketou.shop/fr/products/les-expressions-anglaises-qui-font-la-difference-parle-comme-un-vrai-anglophone-pas-comme-un-manuel"}, {"title": "Les faux amis en anglais", "desc": "Ces mots qui te trompent depuis toujours.", "price": "2 000 F", "cover": "https://imagedelivery.net/putTOXENmIzOdWsdn4Z59Q/2dcf96ee-80fa-4296-d0f5-3f0335d7c500/public", "payUrl": "https://winners-english-center-8.mymaketou.shop/fr/products/les-faux-amis-en-anglais-ces-mots-qui-te-trompent-depuis-toujours"}], "resources": [], "officialTests": [], "faq": [{"q": "Où se trouve le centre ?", "a": "À Cocody, Riviera Palmeraie (Abidjan). Écrivez-nous sur WhatsApp pour recevoir l'itinéraire exact."}, {"q": "Les cours sont-ils aussi en ligne ?", "a": "Oui. Tous nos programmes existent en présentiel et en ligne, avec le même formateur et le même suivi."}, {"q": "Combien coûte la Promo Anglais Noël ?", "a": "45 000 F au lieu de 95 000 F pour les 2 mois de cours. Cours du 16 novembre au 24 décembre, en présentiel ou en ligne, inscriptions jusqu'au 15 novembre."}, {"q": "Comment payer ?", "a": "Par Mobile Money au 07 67 03 72 84 ou au 01 41 81 70 78, ou par virement bancaire (Djamo, au nom de Guy Boris Douka) sur le compte CI201 01001 111607555481 35. Envoyez ensuite la capture ou le reçu du paiement sur WhatsApp."}, {"q": "Proposez-vous des cours pour enfants ?", "a": "Oui : cours d'anglais pour enfants au centre ou à domicile, et répétiteurs du primaire à la terminale."}, {"q": "C'est quoi le Speaking Weekend ?", "a": "Une séance de pratique orale en ligne, chaque samedi de 19 h à 20 h 30 sur Google Meet, en petits groupes avec Coach Winner. 10 000 F par mois pour 4 séances, offert aux élèves de la Promo Anglais Noël. 1re séance le samedi 14 novembre."}, {"q": "Comment connaître mon niveau ?", "a": "Faites le test de niveau gratuit sur cette page : 20 questions, résultat immédiat (A1, A2, B1 ou B2+)."}, {"q": "C'est quoi les 30 jours d'écoute anglophone ?", "a": "Un programme pour habituer ton oreille à l'anglais parlé : chaque jour un audio et un PDF d'exercices sur l'appli et le site, 30 audios bonus, 4 rencontres par mois le week-end avec le Teacher (1 au centre, 3 en ligne), un groupe WhatsApp par niveau, un test d'écoute au début et à la fin, une attestation et un casque offert (livraison gratuite à Abidjan). 3 niveaux, 15 places par niveau. Démarrage officiel le 1er décembre, puis inscriptions ouvertes en continu. 20 000 F tout compris, en une fois."}, {"q": "Faites-vous de la traduction ?", "a": "Oui : traduction de documents, interprétariat et escorte bilingue. Envoyez-nous votre demande sur WhatsApp."}, {"q": "Comment s'inscrire ?", "a": "Le plus simple : écrivez-nous sur WhatsApp au +225 07 67 03 72 84. Nous vous répondons rapidement."}]}</script>
 <script id="site-app">
 (function(){
 "use strict";

diff --git a/programmes.js b/programmes.js
@@ -43,19 +43,19 @@ window.PROGRAMMES = [
     visuel: "img/promo_noel.jpg",
     couleurs: { sombre: "#2F3480", principal: "#B83A35", accent: "#F2B33D" },
     afficherDes: "2026-10-01",                 // date à partir de laquelle l'appli montre ce programme
-    inscriptions: ["2026-10-26", "2026-11-08"], // ouverture, clôture
-    cours: ["2026-11-09", "2026-12-24"],        // début, fin
-    prix: 65000,
+    inscriptions: ["2026-10-26", "2026-11-15"], // ouverture, clôture
+    cours: ["2026-11-16", "2026-12-24"],        // début, fin
+    prix: 45000,
     prixBarre: 95000,
-    acompte: 35000,
-    paiementTexte: "35 000 F à l'inscription, puis 30 000 F début décembre",
+    acompte: 0,
+    paiementTexte: "45 000 F pour les 2 mois de cours",
     reductionAmi: 5000,
     details: [
-      ["📅", "<b>2 mois de cours : novembre et décembre</b>, du lundi 9 novembre au jeudi 24 décembre 2026"],
+      ["📅", "<b>2 mois de cours : novembre et décembre</b>, du lundi 16 novembre au jeudi 24 décembre 2026"],
       ["🕑", "<b>2 cours de 2 h</b> par semaine"],
       ["📍", "<b>Présentiel</b> (Cocody Riviera Palmeraie) ou <b>en ligne</b>"],
-      ["💳", "<b>35 000 F</b> à l'inscription, puis <b>30 000 F</b> début décembre"],
-      ["⏳", "Inscriptions du <b>26 octobre au 8 novembre</b>"]
+      ["💳", "<b>45 000 F</b> pour les 2 mois de cours"],
+      ["⏳", "Inscriptions ouvertes jusqu'au <b>dimanche 15 novembre</b>"]
     ],
     bonus: [
       ["📝", "Test de niveau gratuit"],
@@ -67,16 +67,15 @@ window.PROGRAMMES = [
     faq: [
       ["Je suis débutant complet, je peux venir ?", "Oui ! Le test de niveau nous permet de te placer dans le groupe qui te correspond."],
       ["Comment se passent les cours en ligne ?", "En direct avec Coach Winner, avec les mêmes exercices oraux qu'en présentiel. Il te faut juste un téléphone et une connexion."],
-      ["Je peux payer en deux fois ?", "Oui : 35 000 F à l'inscription, puis 30 000 F début décembre."],
+      ["Je peux payer en deux fois ?", "Écris à Coach Winner sur WhatsApp : on trouve ensemble la formule qui te convient."],
       ["Quels jours ont lieu les cours ?", "2 séances de 2 h par semaine. Les jours et horaires des groupes te sont communiqués à l'inscription."],
       ["Je suis déjà élève de Winners' English Center…", "Écris à Coach Winner sur WhatsApp, il te dira comment continuer."]
     ],
     agenda: [
       ["2026-10-26", "Ouverture des inscriptions"],
-      ["2026-11-08", "Clôture des inscriptions"],
-      ["2026-11-09", "Premier cours"],
-      ["2026-12-01", "Paiement du 2e versement (30 000 F)"],
-      ["2026-12-24", "Dernier cours, Christmas English Party (CHIC SALLE) et remise des attestations"]
+      ["2026-11-15", "Masterclass gratuite (8 h 30 – 12 h) et clôture des inscriptions"],
+      ["2026-11-16", "Premier cours"],
+        ["2026-12-24", "Dernier cours, Christmas English Party (CHIC SALLE) et remise des attestations"]
     ]
   }
 
